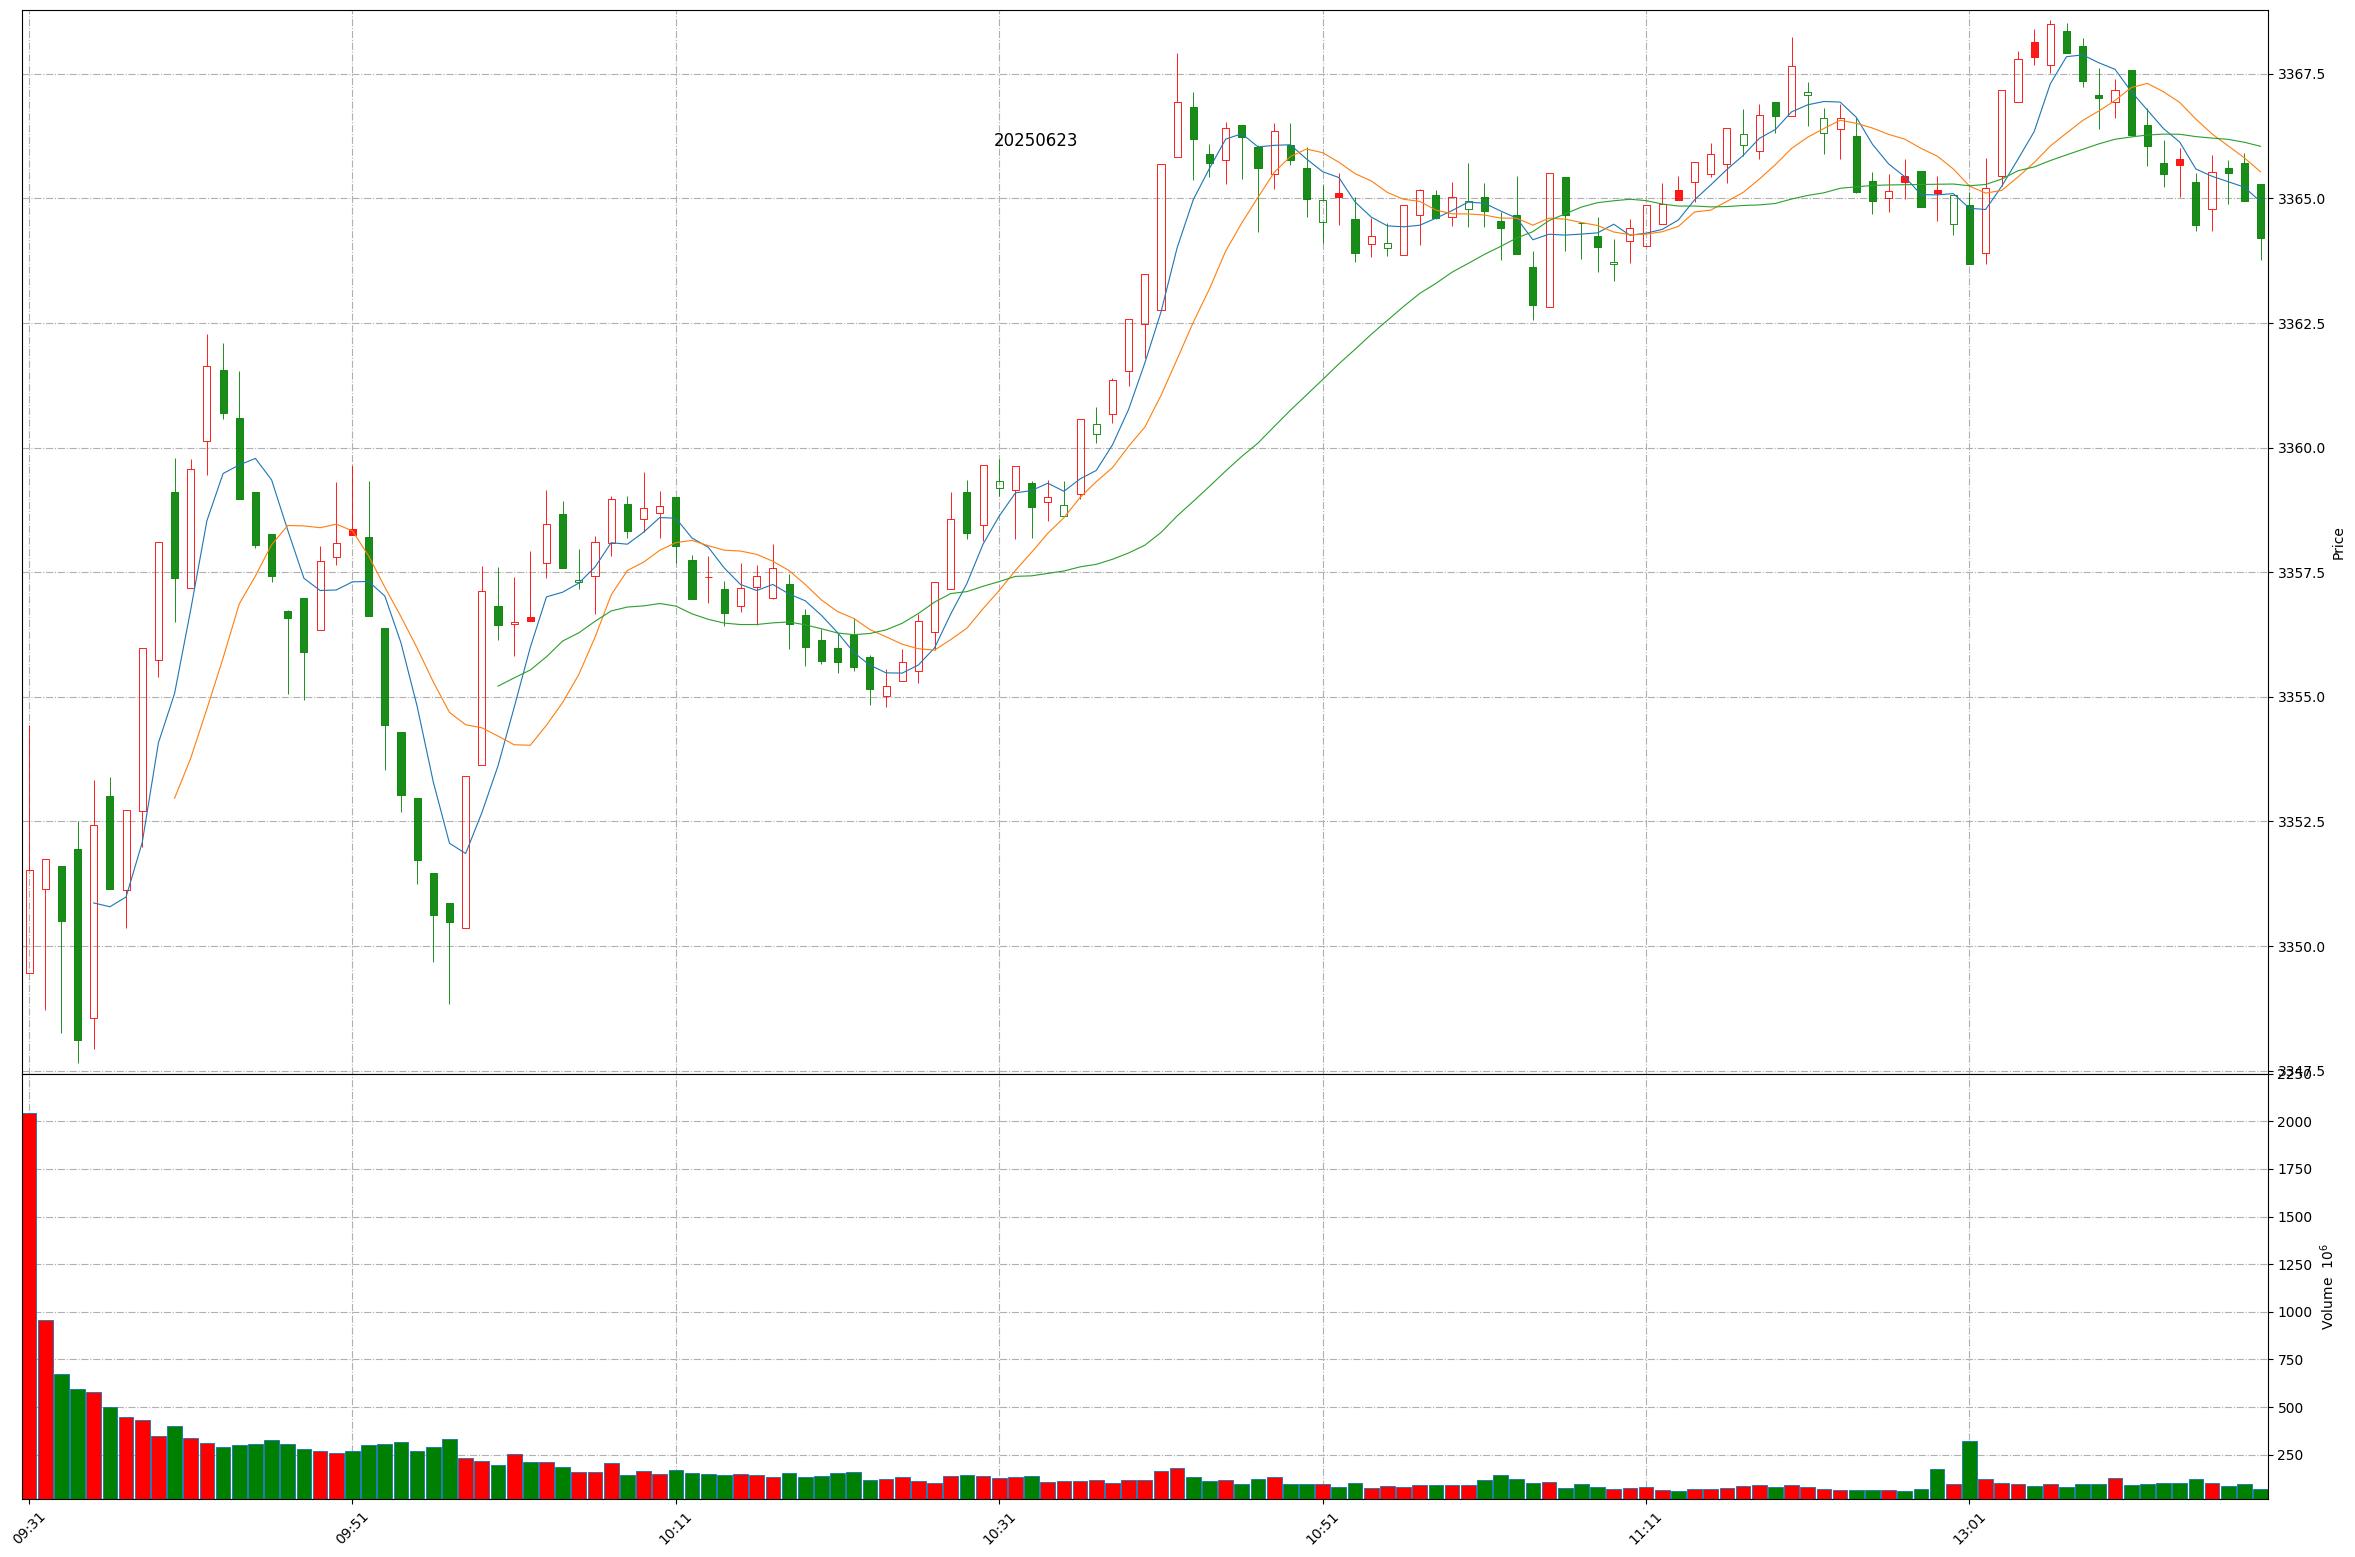
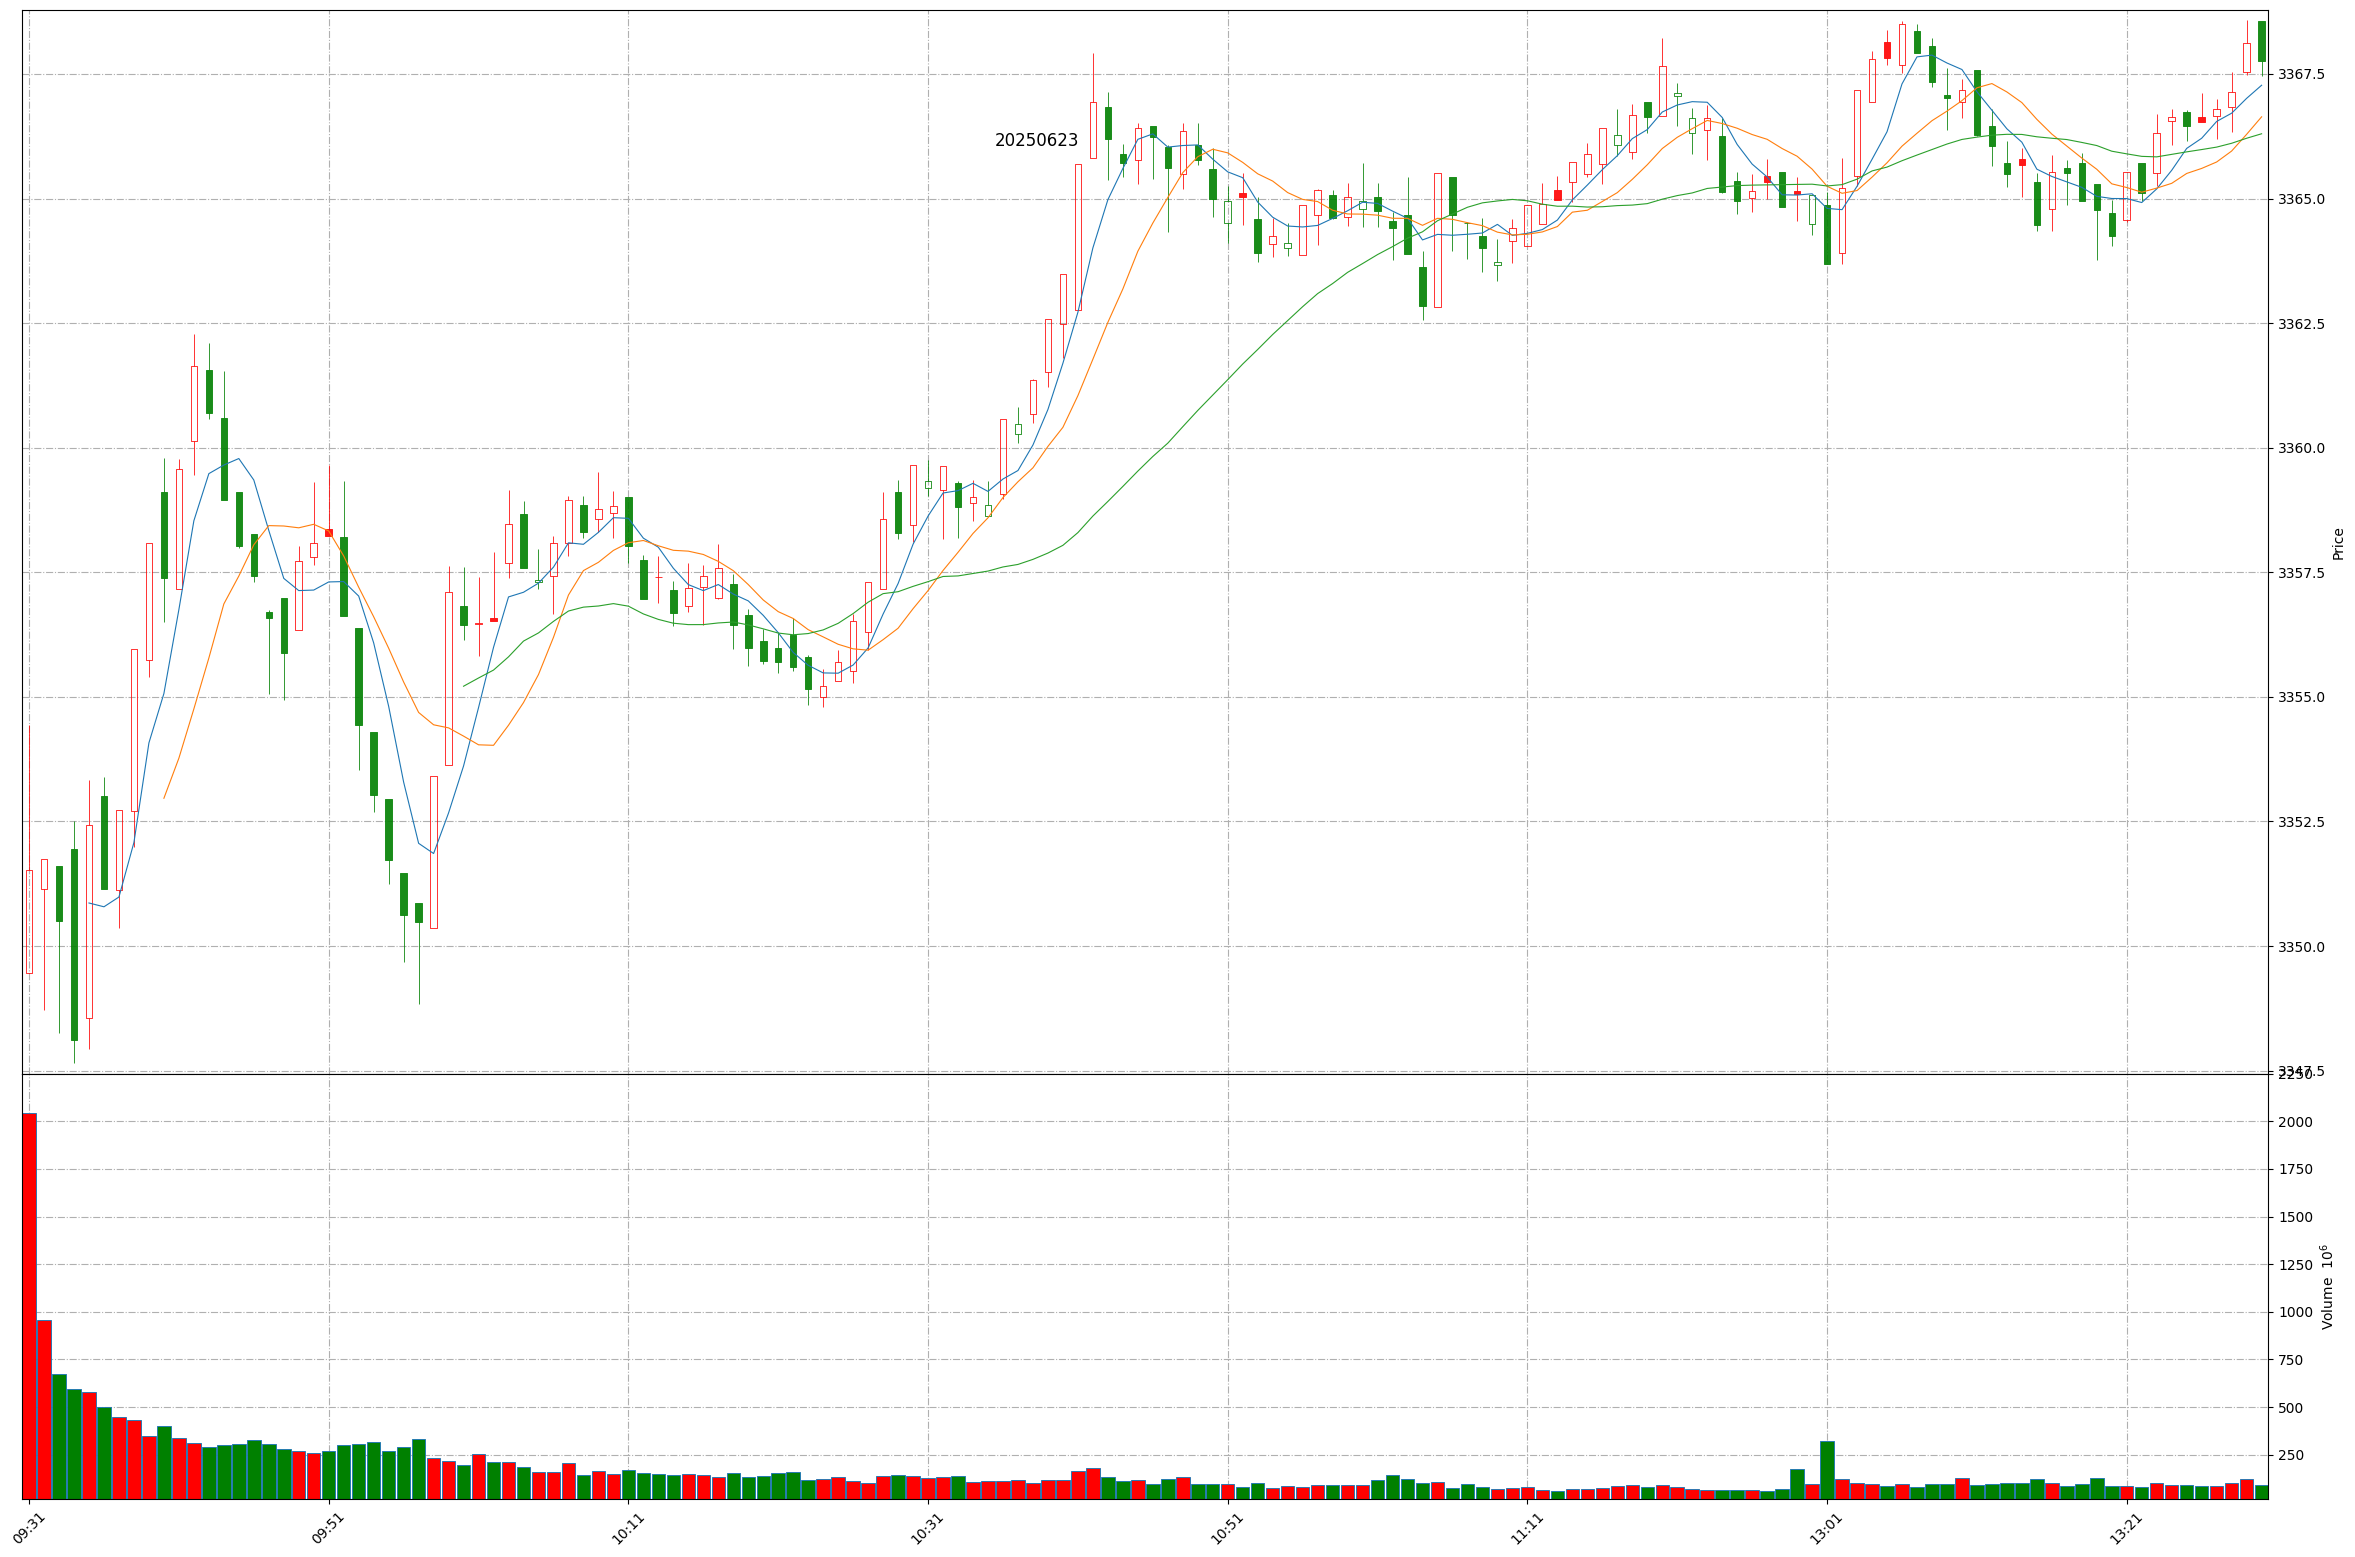
Github action update at 2025-06-23 13:30:10.

diff --git a/README.md b/README.md
@@ -1,11 +1,11 @@
 
 # Daily-A-share-market-quotes 每日 A 股指数（5min 更新）- 20250623
 
-### 上证指数 20250623 13:18
+### 上证指数 20250623 13:30
 ![](./fig/2025/6/20250623-sh000001.png)
 
-### 深证成指 20250623 13:18
+### 深证成指 20250623 13:30
 ![](./fig/2025/6/20250623-sz399001.png)
 
-### 北证50 20250623 13:18
+### 北证50 20250623 13:30
 ![](./fig/2025/6/20250623-bj899050.png)
